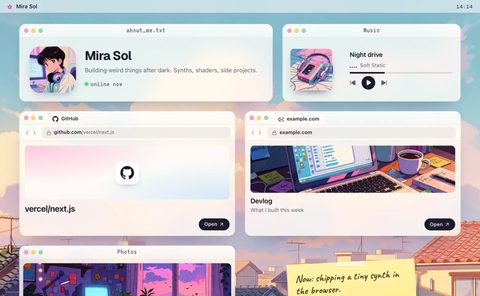
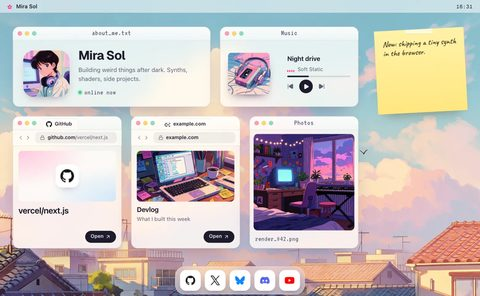
Onboarding shows each look as a picture, not six live pages: phones ran out of memory and reloaded the tab

diff --git a/src/app/(app)/onboarding/page.tsx b/src/app/(app)/onboarding/page.tsx
@@ -2,11 +2,9 @@ import type { Metadata } from 'next';
 import { redirect } from 'next/navigation';
 import { requireUser } from '@/lib/session';
 import { pageForUser } from '@/lib/pages';
-import { starterPage } from '@/lib/templates';
 import { STYLE_IDS, STYLE_INFO, PREMIUM_STYLES } from '@/lib/styles';
 import { THEMES, PREMIUM_THEMES } from '@/lib/themes';
 import { entitlementsFor } from '@/lib/entitlements';
-import { Thumbnail } from '@/components/page/Thumbnail';
 import { Onboarding } from '@/components/auth/Onboarding';
 import { Logo } from '@/components/brand';
 import { AppFrame } from '@/components/dash/ui';
@@ -25,10 +23,13 @@ export default async function OnboardingPage({ searchParams }: { searchParams: P
   if (await pageForUser(user.id)) redirect('/edit');
   const { username, look } = await searchParams;
   const premium = (await entitlementsFor(user.id)).premium;
-  const styles = STYLE_IDS.map(id => {
-    const page = starterPage({ name: user.name, style: id });
-    return { id, label: STYLE_INFO[id].label, note: STYLE_INFO[id].note, preset: STYLE_INFO[id].preset, layout: STYLE_INFO[id].layout, locked: !premium && PREMIUM_STYLES.has(id), preview: <Thumbnail key={id} page={page} width={1100} height={680} scale={0.26} /> };
-  });
+  // Each look is shown as a small picture, not a live page: six live scenes decode hundreds of MB of art, and phones
+  // (iOS Safari, in-app browsers) kill and reload the tab. The live preview below still shows the chosen look for real.
+  const styles = STYLE_IDS.map(id => ({
+    id, label: STYLE_INFO[id].label, note: STYLE_INFO[id].note, preset: STYLE_INFO[id].preset, layout: STYLE_INFO[id].layout, locked: !premium && PREMIUM_STYLES.has(id),
+    // eslint-disable-next-line @next/next/no-img-element
+    preview: <img key={id} src={`/looks/swatches/${id}.jpg`} alt="" loading="lazy" decoding="async" className="size-full object-cover object-top" />,
+  }));
   const themes = Object.values(THEMES).map(t => ({ id: t.id, name: t.name, bg: t.bg, accent: t.accent, text: t.text, dark: t.dark, locked: !premium && PREMIUM_THEMES.has(t.id) }));
   return (
     <AppFrame>
